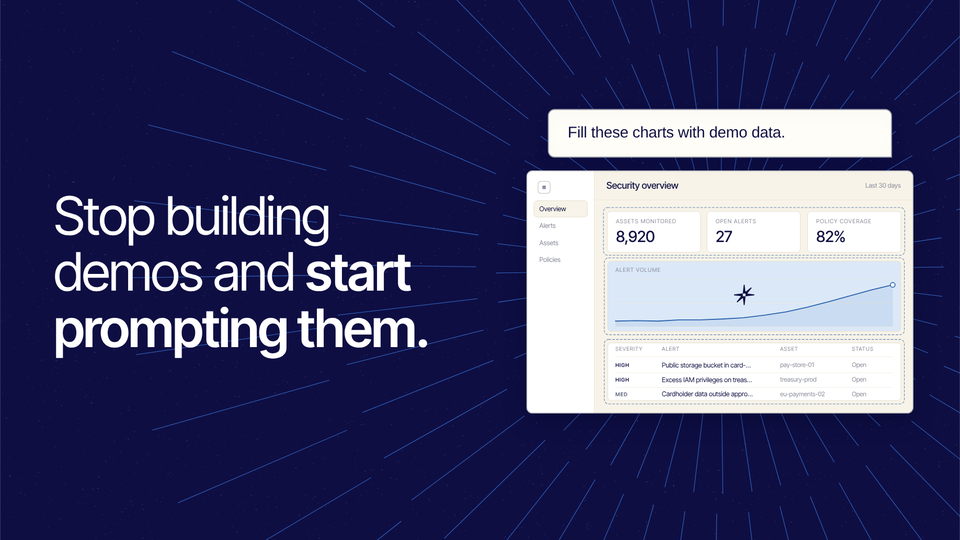
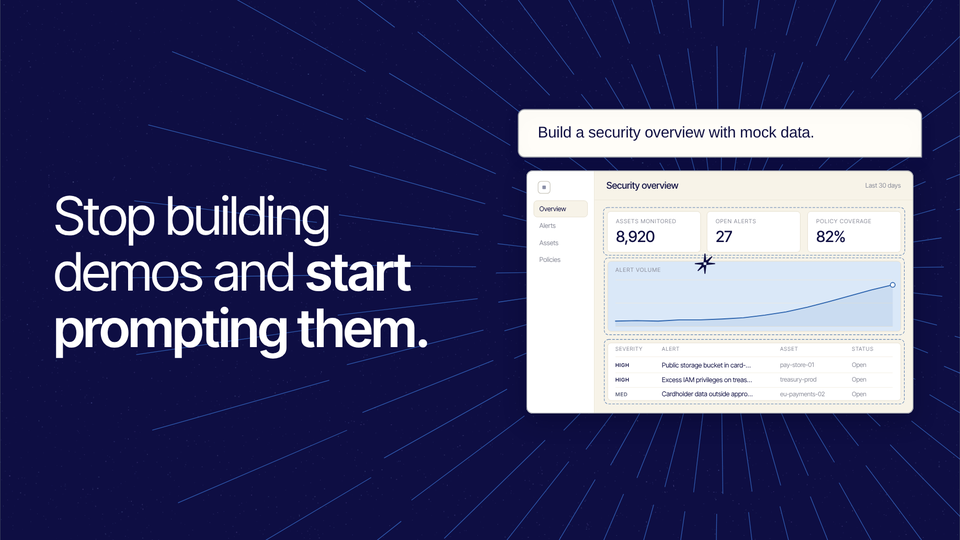
Stop Building Demos: prompt now reads 'Build a security overview with mock data.'
Claude-Session: https://claude.ai/code/session_01AHeBdziXgi6i9QaawZ6MzF

diff --git a/prompt-demos/index.html b/prompt-demos/index.html
@@ -33,7 +33,7 @@ const DEEP = "#0e0e43";             // scene 2 background (from the image)
 const SANS = "Arial", MONO = "Courier New", SERIF = "Georgia";
 const HEAD = "'Inter Tight','Helvetica Neue',Helvetica,Arial,sans-serif";
 
-const L1 = "Fill these charts with demo data.", L2 = "";
+const L1 = "Build a security overview with mock data.", L2 = "";
 const N1 = L1.length, TOT = L2.length ? N1 + 1 + L2.length : N1;   // single line: no second-line step
 const NAMES_A = ["Northwind", "Globex", "Initech"], NAMES_B = ["AbbVie", "AstraZeneca", "Bristol Myers"];
 const NAV_W = [70, 44, 62, 52, 38], ROW_Y = [274, 332, 390];
